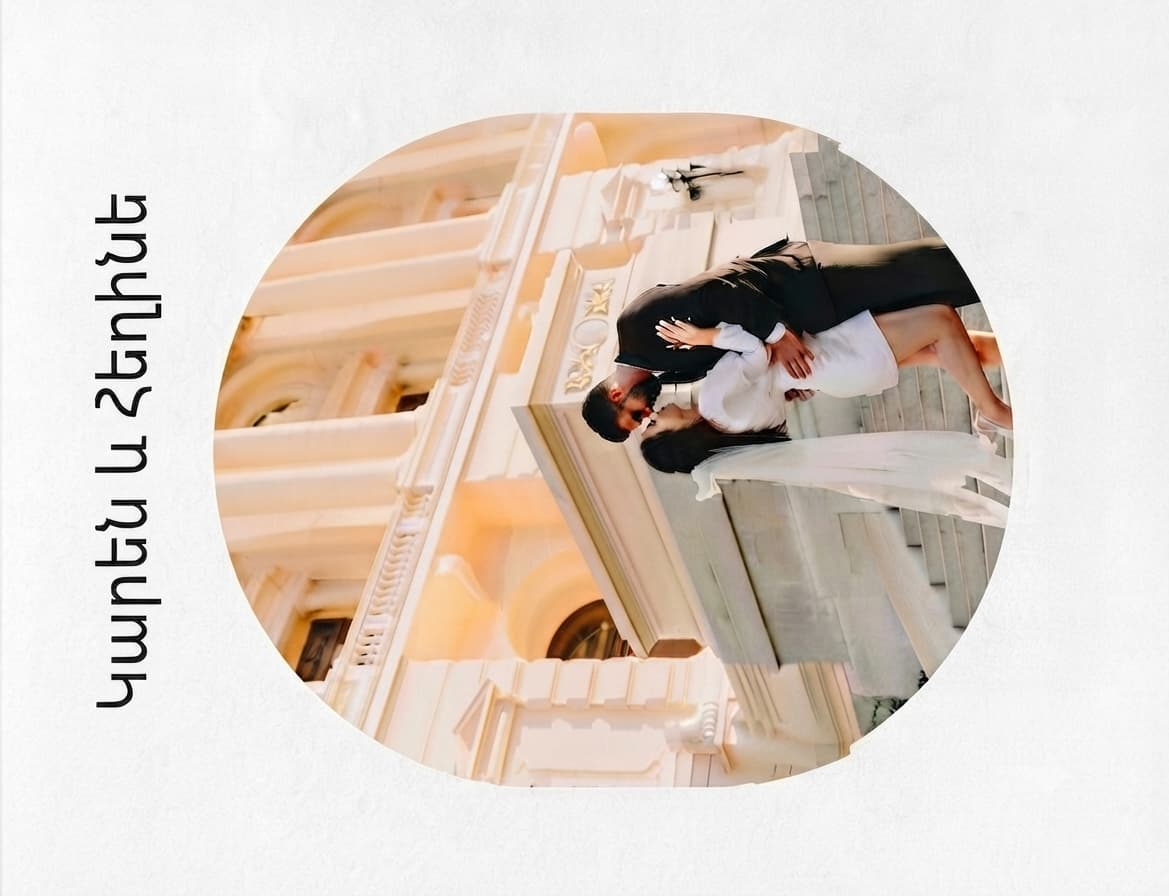
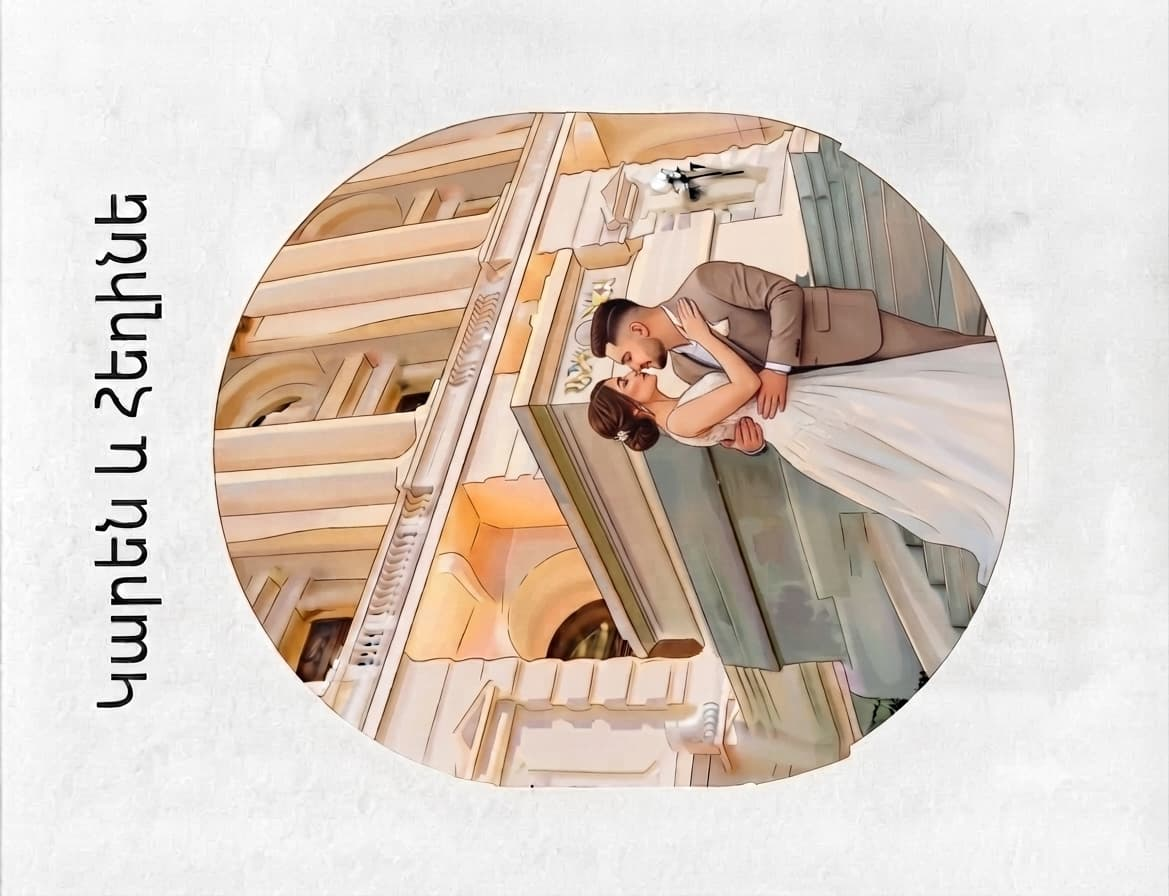
sixth commit

diff --git a/css/style.css b/css/style.css
@@ -402,7 +402,7 @@ body {
 .image-card {
     width: clamp(270px, 30vw, 340px);
     height: 400px;
-    background-image: url("https://static.tildacdn.one/tild3663-6430-4166-b535-633132313433/d6de6d354ecba2ae00d5.jpg");
+    background-image: url("../img/end-photo-of-the-newlyweds.jpg");
     background-size: cover;
     background-position: center;
     background-repeat: no-repeat;
